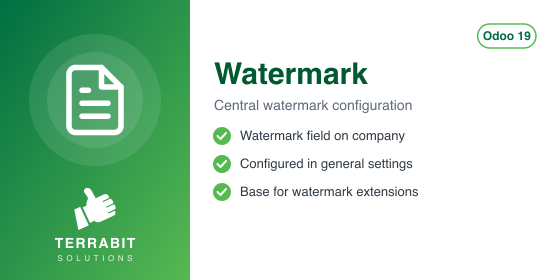
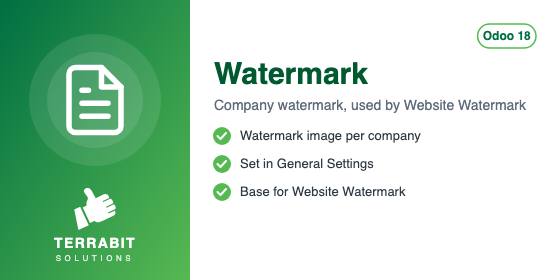
[IMP] deltatech_watermark: Apps Store page aligned with 19.0
Port of the 19.0 page (dhongu/deltatech#3024); the module code is the same on 18.0 and
19.0 (models and settings view):
- DESCRIPTION, USAGE and a new CONFIGURE from 19.0; the Website Watermark Image link
  points to its 18.0 page
- settings screenshot without the company logo that was visible in the watermark field
- banner from 19.0 (banner.json + SVG) with the "Odoo 18" pill, PNG rendered from the SVG
- summary in English, category Extra Tools, support key; HISTORY.md added
- index.html regenerated with the canonical template

diff --git a/deltatech_watermark/static/description/index.html b/deltatech_watermark/static/description/index.html
@@ -3,10 +3,10 @@
 <div class="text-center rounded-4 shadow px-4 pt-4 pb-3 mt-2 mb-4" style="background-color:#006F42;color:#ffffff;">
   <div class="mb-3"><span class="d-inline-block rounded-3 p-2" style="background-color:#ffffff;"><img src="icon.png" alt="Watermark" style="width:72px;height:72px;border:none;"/></span></div>
   <h1 class="fw-bold mb-3" style="color:#ffffff;font-size:42px;line-height:1.08;letter-spacing:-0.5px;border:none;">Watermark</h1>
-  <p class="mx-auto mb-4" style="font-size:19px;color:#cdeccf;max-width:620px;line-height:1.5;">Watermark field</p>
+  <p class="mx-auto mb-4" style="font-size:19px;color:#cdeccf;max-width:620px;line-height:1.5;">Company watermark, used by Website Watermark</p>
   <div>
     <span class="d-inline-block rounded-pill fw-bold m-1" style="background-color:#00432a;color:#ffffff;padding:8px 16px;font-size:12px;">Odoo 18.0</span>
-    <span class="d-inline-block rounded-pill fw-semibold m-1" style="background-color:#00432a;color:#ffffff;padding:8px 16px;font-size:12px;">Tools</span>
+    <span class="d-inline-block rounded-pill fw-semibold m-1" style="background-color:#00432a;color:#ffffff;padding:8px 16px;font-size:12px;">Extra Tools</span>
     <span class="d-inline-block rounded-pill fw-semibold m-1" style="background-color:#00432a;color:#ffffff;padding:8px 16px;font-size:12px;">LGPL-3</span>
     <span class="d-inline-block rounded-pill fw-semibold m-1" style="background-color:#00432a;color:#ffffff;padding:8px 16px;font-size:12px;">Odoo.sh &bull; On-premise</span>
   </div>
@@ -27,55 +27,64 @@
        style="padding:10px 22px;">Overview</a>
   </li>
   <li class="nav-item mx-1 mb-2">
+    <a class="nav-link fw-semibold rounded-pill border" id="tb-tab-configure"
+       data-bs-toggle="pill" data-bs-target="#tb-panel-configure" href="#tb-panel-configure"
+       style="padding:10px 22px;">Configuration</a>
+  </li>
+  <li class="nav-item mx-1 mb-2">
     <a class="nav-link fw-semibold rounded-pill border" id="tb-tab-usage"
        data-bs-toggle="pill" data-bs-target="#tb-panel-usage" href="#tb-panel-usage"
        style="padding:10px 22px;">Usage</a>
+  </li>
+  <li class="nav-item mx-1 mb-2">
+    <a class="nav-link fw-semibold rounded-pill border" id="tb-tab-versions"
+       data-bs-toggle="pill" data-bs-target="#tb-panel-versions" href="#tb-panel-versions"
+       style="padding:10px 22px;">Versions</a>
   </li>
 </ul>
 <div class="tab-content">
 <div class="tab-pane fade show active py-2" id="tb-panel-overview" style="font-size:16px;line-height:1.65;color:#212529;font-weight:400;">
 <h2 class="fw-bold mb-3" style="border:none;border-left:4px solid #57B952;padding-left:16px;font-size:24px;letter-spacing:-0.3px;line-height:1.2;">Overview</h2>
-<h1 class="fw-bold mt-4 mb-3" style="border:none;border-left:4px solid #57B952;padding-left:16px;font-size:24px;letter-spacing:-0.3px;line-height:1.2;">Watermark Field Base</h1>
-<p class="mb-4" style="font-size:16px;line-height:1.65;max-width:780px;">This module provides a base field for watermark images or text within Odoo. It's designed to act as a centralized storage and configuration point for watermarking functionalities used across different areas of the system, particularly in reports and on the website.</p>
-<h1 class="fw-bold mt-4 mb-3" style="border:none;border-left:4px solid #57B952;padding-left:16px;font-size:24px;letter-spacing:-0.3px;line-height:1.2;">Key Features</h1>
+<p class="mb-4" style="font-size:16px;line-height:1.65;max-width:780px;">Upload the company watermark once, in the settings, and let other modules use it where it is
+needed. This module stores the watermark image on each company and shows it in the General
+Settings. It does not change any page or document by itself: the
+<a href="https://apps.odoo.com/apps/modules/18.0/deltatech_website_watermark">Website Watermark Image</a>
+module uses it to mark the product pictures of the online shop.</p>
+<ul class="list-unstyled row row-cols-1 row-cols-md-2 g-2 mt-1 mb-4"><li class="col"><div class="border rounded-3 px-3 py-2 h-100"><span class="fw-bold">One watermark per company</span><div>Each company keeps its own watermark image. In a
+  multi-company database, the setting applies to the current company.</div></div></li><li class="col"><div class="border rounded-3 px-3 py-2 h-100"><span class="fw-bold">Set in General Settings</span><div>The image is uploaded in the Companies section of the settings,
+  with a preview.</div></div></li><li class="col"><div class="border rounded-3 px-3 py-2 h-100"><span class="fw-bold">Base for Website Watermark</span><div>Website Watermark Image applies it to the product pictures of
+  the shop when they are displayed, so the original images stay clean.</div></div></li><li class="col"><div class="border rounded-3 px-3 py-2 h-100"><span class="fw-bold">Lightweight</span><div>It depends only on the standard settings (<code class="border rounded px-2" style="font-family:ui-monospace,SFMono-Regular,Menlo,Consolas,monospace;font-size:13px;">base_setup</code> and <code class="border rounded px-2" style="font-family:ui-monospace,SFMono-Regular,Menlo,Consolas,monospace;font-size:13px;">web</code>), so other
+  modules can build on it without pulling in the website.</div></div></li></ul>
+</div>
+<div class="tab-pane fade py-2" id="tb-panel-configure" style="font-size:16px;line-height:1.65;color:#212529;font-weight:400;">
+<h2 class="fw-bold mb-3" style="border:none;border-left:4px solid #57B952;padding-left:16px;font-size:24px;letter-spacing:-0.3px;line-height:1.2;">Configuration</h2>
 <ol>
-<li>
-<p><strong>Centralized Watermark Storage</strong>:</p>
-<ul>
-<li>Adds a dedicated <strong>Watermark</strong> field (usually on the Company model).</li>
-<li>Provides a standardized place to upload and manage the image or define the text used for watermarking corporate documents or media.</li>
-</ul>
-</li>
-<li>
-<p><strong>Configuration Settings</strong>:</p>
-<ul>
-<li>Integrates with Odoo's standard configuration settings for easy management.</li>
-<li>Allows administrators to quickly update the corporate watermark globally.</li>
-</ul>
-</li>
-<li>
-<p><strong>Foundation for Extensions</strong>:</p>
-<ul>
-<li>Acts as a necessary dependency for more specific watermarking modules, such as those that apply watermarks to website images or generated PDF reports.</li>
-</ul>
-</li>
+<li>Go to <em>Settings &gt; General Settings</em>, section <em>Companies</em>.</li>
+<li>Under <strong>Watermark image</strong>, upload the image to use as the company watermark.</li>
+<li>In a multi-company database, switch to each company and repeat, if the companies use
+   different watermarks.</li>
 </ol>
-<h1 class="fw-bold mt-4 mb-3" style="border:none;border-left:4px solid #57B952;padding-left:16px;font-size:24px;letter-spacing:-0.3px;line-height:1.2;">Usage</h1>
-<ol>
-<li>Navigate to <strong>Settings &gt; General Settings</strong>.</li>
-<li>Locate the <strong>Watermark</strong> section (if configured) or open the <strong>Company</strong> record.</li>
-<li>Upload the desired image or enter the text you wish to use as a watermark.</li>
-<li>Install other modules that depend on this base module (e.g., <code class="border rounded px-2" style="font-family:ui-monospace,SFMono-Regular,Menlo,Consolas,monospace;font-size:13px;">deltatech_website_watermark</code>) to see the watermark applied in specific contexts.</li>
-</ol>
-<p>WARNING:</p>
-<p>This module provides the necessary fields and configuration but does not apply the watermark by itself. It requires additional extension modules to perform the actual watermarking on specific documents or images.</p>
+<p><img alt="" src="settings.png" /></p>
+<p><em>Screenshot from an earlier Odoo version, where the field was under Business Documents. In
+Odoo 18 it is in the Companies section.</em></p>
 </div>
 <div class="tab-pane fade py-2" id="tb-panel-usage" style="font-size:16px;line-height:1.65;color:#212529;font-weight:400;">
 <h2 class="fw-bold mb-3" style="border:none;border-left:4px solid #57B952;padding-left:16px;font-size:24px;letter-spacing:-0.3px;line-height:1.2;">Usage</h2>
+<p>This module only stores the watermark. To see it applied, install a module that uses it, such as
+<a href="https://apps.odoo.com/apps/modules/18.0/deltatech_website_watermark">Website Watermark Image</a>,
+which marks the product pictures of the online shop.</p>
+<p>When the <strong>Watermark image</strong> is empty, the modules that depend on it show the images unchanged.</p>
+</div>
+<div class="tab-pane fade py-2" id="tb-panel-versions" style="font-size:16px;line-height:1.65;color:#212529;font-weight:400;">
+<h2 class="fw-bold mb-3" style="border:none;border-left:4px solid #57B952;padding-left:16px;font-size:24px;letter-spacing:-0.3px;line-height:1.2;">Versions</h2>
+<h2 class="fw-bold mt-4 mb-3" style="border:none;border-left:4px solid #57B952;padding-left:16px;font-size:24px;letter-spacing:-0.3px;line-height:1.2;">18.0.3.0.1 (2026-10-06)</h2>
 <ul>
-<li>Go to: Setting -&gt; General Settings - Business Documents</li>
+<li>Apps Store description brought in line with 19.0: a watermark image per company, set in
+  General Settings (Companies section), used by Website Watermark Image. Separate Configuration
+  and Usage, clearer summary, category Extra Tools.</li>
+<li>The settings screenshot no longer shows a sample company logo in the watermark field, and the
+  Apps Store banner matches the new summary.</li>
 </ul>
-<p><img alt="" src="settings.png" /></p>
 </div>
 </div>
 
@@ -117,6 +126,38 @@
        class="fw-semibold" style="color:#006F42;">All apps &rarr;</a></p>
   <div class="row g-3">
     <div class="col-md-3 col-sm-6">
+      <a href="https://apps.odoo.com/apps/modules/18.0/deltatech_line_counter" target="_blank" rel="noopener"
+         class="card h-100 text-decoration-none border" style="color:#212529;">
+        <div class="card-body p-3">
+          <div class="d-flex align-items-center mb-2">
+            <span class="d-inline-block text-center fw-bold rounded me-2 flex-shrink-0"
+                  style="width:40px;height:40px;line-height:40px;font-size:14px;color:#ffffff;background-color:#006F42;">LC</span>
+            <span>
+              <span class="d-block fw-semibold" style="font-size:16px;line-height:1.25;">Deltatech Line Counter</span>
+              <span class="d-block" style="font-size:13px;color:#3d4752;">Extra Tools</span>
+            </span>
+          </div>
+          <p class="mb-0" style="font-size:15px;line-height:1.45;color:#3d4752;">Count lines of code in selected modules</p>
+        </div>
+      </a>
+    </div>
+    <div class="col-md-3 col-sm-6">
+      <a href="https://apps.odoo.com/apps/modules/18.0/deltatech_sms" target="_blank" rel="noopener"
+         class="card h-100 text-decoration-none border" style="color:#212529;">
+        <div class="card-body p-3">
+          <div class="d-flex align-items-center mb-2">
+            <span class="d-inline-block text-center fw-bold rounded me-2 flex-shrink-0"
+                  style="width:40px;height:40px;line-height:40px;font-size:14px;color:#ffffff;background-color:#006F42;">SM</span>
+            <span>
+              <span class="d-block fw-semibold" style="font-size:16px;line-height:1.25;">Deltatech SMS</span>
+              <span class="d-block" style="font-size:13px;color:#3d4752;">Extra Tools</span>
+            </span>
+          </div>
+          <p class="mb-0" style="font-size:15px;line-height:1.45;color:#3d4752;">Send SMS to custom endpoint</p>
+        </div>
+      </a>
+    </div>
+    <div class="col-md-3 col-sm-6">
       <a href="https://apps.odoo.com/apps/modules/18.0/deltatech" target="_blank" rel="noopener"
          class="card h-100 text-decoration-none border" style="color:#212529;">
         <div class="card-body p-3">
@@ -129,86 +170,6 @@
             </span>
           </div>
           <p class="mb-0" style="font-size:15px;line-height:1.45;color:#3d4752;">Generic module</p>
-        </div>
-      </a>
-    </div>
-    <div class="col-md-3 col-sm-6">
-      <a href="https://apps.odoo.com/apps/modules/18.0/deltatech_no_quick_create" target="_blank" rel="noopener"
-         class="card h-100 text-decoration-none border" style="color:#212529;">
-        <div class="card-body p-3">
-          <div class="d-flex align-items-center mb-2">
-            <span class="d-inline-block text-center fw-bold rounded me-2 flex-shrink-0"
-                  style="width:40px;height:40px;line-height:40px;font-size:14px;color:#ffffff;background-color:#006F42;">NQ</span>
-            <span>
-              <span class="d-block fw-semibold" style="font-size:16px;line-height:1.25;">No quick_create</span>
-              <span class="d-block" style="font-size:13px;color:#3d4752;">Tools</span>
-            </span>
-          </div>
-          <p class="mb-0" style="font-size:15px;line-height:1.45;color:#3d4752;">Disable quick_create</p>
-        </div>
-      </a>
-    </div>
-    <div class="col-md-3 col-sm-6">
-      <a href="https://apps.odoo.com/apps/modules/18.0/deltatech_notification_sound" target="_blank" rel="noopener"
-         class="card h-100 text-decoration-none border" style="color:#212529;">
-        <div class="card-body p-3">
-          <div class="d-flex align-items-center mb-2">
-            <span class="d-inline-block text-center fw-bold rounded me-2 flex-shrink-0"
-                  style="width:40px;height:40px;line-height:40px;font-size:14px;color:#ffffff;background-color:#006F42;">NS</span>
-            <span>
-              <span class="d-block fw-semibold" style="font-size:16px;line-height:1.25;">Notification Sound</span>
-              <span class="d-block" style="font-size:13px;color:#3d4752;">Tools</span>
-            </span>
-          </div>
-          <p class="mb-0" style="font-size:15px;line-height:1.45;color:#3d4752;">Notification Sound</p>
-        </div>
-      </a>
-    </div>
-    <div class="col-md-3 col-sm-6">
-      <a href="https://apps.odoo.com/apps/modules/18.0/deltatech_packaging" target="_blank" rel="noopener"
-         class="card h-100 text-decoration-none border" style="color:#212529;">
-        <div class="card-body p-3">
-          <div class="d-flex align-items-center mb-2">
-            <span class="d-inline-block text-center fw-bold rounded me-2 flex-shrink-0"
-                  style="width:40px;height:40px;line-height:40px;font-size:14px;color:#ffffff;background-color:#006F42;">PA</span>
-            <span>
-              <span class="d-block fw-semibold" style="font-size:16px;line-height:1.25;">Packaging</span>
-              <span class="d-block" style="font-size:13px;color:#3d4752;">Tools</span>
-            </span>
-          </div>
-          <p class="mb-0" style="font-size:15px;line-height:1.45;color:#3d4752;">Packaging</p>
-        </div>
-      </a>
-    </div>
-    <div class="col-md-3 col-sm-6">
-      <a href="https://apps.odoo.com/apps/modules/18.0/deltatech_restrict_reports" target="_blank" rel="noopener"
-         class="card h-100 text-decoration-none border" style="color:#212529;">
-        <div class="card-body p-3">
-          <div class="d-flex align-items-center mb-2">
-            <span class="d-inline-block text-center fw-bold rounded me-2 flex-shrink-0"
-                  style="width:40px;height:40px;line-height:40px;font-size:14px;color:#ffffff;background-color:#006F42;">RR</span>
-            <span>
-              <span class="d-block fw-semibold" style="font-size:16px;line-height:1.25;">Deltatech - Restrict Reports Access</span>
-              <span class="d-block" style="font-size:13px;color:#3d4752;">Tools</span>
-            </span>
-          </div>
-          <p class="mb-0" style="font-size:15px;line-height:1.45;color:#3d4752;">Restrict Sales Analysis and Invoice Analysis reports by group: own records, all records, or no access.</p>
-        </div>
-      </a>
-    </div>
-    <div class="col-md-3 col-sm-6">
-      <a href="https://apps.odoo.com/apps/modules/18.0/deltatech_test_system" target="_blank" rel="noopener"
-         class="card h-100 text-decoration-none border" style="color:#212529;">
-        <div class="card-body p-3">
-          <div class="d-flex align-items-center mb-2">
-            <span class="d-inline-block text-center fw-bold rounded me-2 flex-shrink-0"
-                  style="width:40px;height:40px;line-height:40px;font-size:14px;color:#ffffff;background-color:#006F42;">TS</span>
-            <span>
-              <span class="d-block fw-semibold" style="font-size:16px;line-height:1.25;">Deltatech Test System</span>
-              <span class="d-block" style="font-size:13px;color:#3d4752;">Tools</span>
-            </span>
-          </div>
-          <p class="mb-0" style="font-size:15px;line-height:1.45;color:#3d4752;">Set system status: test or production</p>
         </div>
       </a>
     </div>
@@ -241,6 +202,54 @@
             </span>
           </div>
           <p class="mb-0" style="font-size:15px;line-height:1.45;color:#3d4752;">Analytic lines enhancements</p>
+        </div>
+      </a>
+    </div>
+    <div class="col-md-3 col-sm-6">
+      <a href="https://apps.odoo.com/apps/modules/18.0/deltatech_account_edi_ubl_advice" target="_blank" rel="noopener"
+         class="card h-100 text-decoration-none border" style="color:#212529;">
+        <div class="card-body p-3">
+          <div class="d-flex align-items-center mb-2">
+            <span class="d-inline-block text-center fw-bold rounded me-2 flex-shrink-0"
+                  style="width:40px;height:40px;line-height:40px;font-size:14px;color:#ffffff;background-color:#006F42;">UD</span>
+            <span>
+              <span class="d-block fw-semibold" style="font-size:16px;line-height:1.25;">Deltatech UBL despatch advice</span>
+              <span class="d-block" style="font-size:13px;color:#3d4752;">Accounting &amp; Finance</span>
+            </span>
+          </div>
+          <p class="mb-0" style="font-size:15px;line-height:1.45;color:#3d4752;">Deltatech Account UBL despatch advice</p>
+        </div>
+      </a>
+    </div>
+    <div class="col-md-3 col-sm-6">
+      <a href="https://apps.odoo.com/apps/modules/18.0/deltatech_account_edi_ubl_gln" target="_blank" rel="noopener"
+         class="card h-100 text-decoration-none border" style="color:#212529;">
+        <div class="card-body p-3">
+          <div class="d-flex align-items-center mb-2">
+            <span class="d-inline-block text-center fw-bold rounded me-2 flex-shrink-0"
+                  style="width:40px;height:40px;line-height:40px;font-size:14px;color:#ffffff;background-color:#006F42;">UG</span>
+            <span>
+              <span class="d-block fw-semibold" style="font-size:16px;line-height:1.25;">Deltatech UBL GLN - Obsolete</span>
+              <span class="d-block" style="font-size:13px;color:#3d4752;">Accounting &amp; Finance</span>
+            </span>
+          </div>
+          <p class="mb-0" style="font-size:15px;line-height:1.45;color:#3d4752;">Deltatech Account UBL GLN</p>
+        </div>
+      </a>
+    </div>
+    <div class="col-md-3 col-sm-6">
+      <a href="https://apps.odoo.com/apps/modules/18.0/deltatech_account_edit_currency_rate" target="_blank" rel="noopener"
+         class="card h-100 text-decoration-none border" style="color:#212529;">
+        <div class="card-body p-3">
+          <div class="d-flex align-items-center mb-2">
+            <span class="d-inline-block text-center fw-bold rounded me-2 flex-shrink-0"
+                  style="width:40px;height:40px;line-height:40px;font-size:14px;color:#ffffff;background-color:#006F42;">EC</span>
+            <span>
+              <span class="d-block fw-semibold" style="font-size:16px;line-height:1.25;">Deltatech Edit Currency Rate</span>
+              <span class="d-block" style="font-size:13px;color:#3d4752;">Sales</span>
+            </span>
+          </div>
+          <p class="mb-0" style="font-size:15px;line-height:1.45;color:#3d4752;">Edit the currency rate on the invoice</p>
         </div>
       </a>
     </div>

diff --git a/deltatech_watermark/__manifest__.py b/deltatech_watermark/__manifest__.py
@@ -4,11 +4,12 @@
 
 {
     "name": "Watermark",
-    "summary": "Watermark field",
-    "version": "18.0.3.0.0",
+    "summary": "Company watermark, used by Website Watermark",
+    "version": "18.0.3.0.1",
     "author": "Terrabit, Dorin Hongu",
     "website": "https://www.terrabit.ro",
-    "category": "Tools",
+    "support": "support@terrabit.ro",
+    "category": "Extra Tools",
     "depends": ["base_setup", "web"],
     "license": "LGPL-3",
     "data": [

diff --git a/deltatech_watermark/readme/DESCRIPTION.md b/deltatech_watermark/readme/DESCRIPTION.md
@@ -1,30 +1,14 @@
-Watermark Field Base
-====================
+Upload the company watermark once, in the settings, and let other modules use it where it is
+needed. This module stores the watermark image on each company and shows it in the General
+Settings. It does not change any page or document by itself: the
+[Website Watermark Image](https://apps.odoo.com/apps/modules/18.0/deltatech_website_watermark)
+module uses it to mark the product pictures of the online shop.
 
-This module provides a base field for watermark images or text within Odoo. It's designed to act as a centralized storage and configuration point for watermarking functionalities used across different areas of the system, particularly in reports and on the website.
-
-Key Features
-============
-
-1.  **Centralized Watermark Storage**:
-    *   Adds a dedicated **Watermark** field (usually on the Company model).
-    *   Provides a standardized place to upload and manage the image or define the text used for watermarking corporate documents or media.
-
-2.  **Configuration Settings**:
-    *   Integrates with Odoo's standard configuration settings for easy management.
-    *   Allows administrators to quickly update the corporate watermark globally.
-
-3.  **Foundation for Extensions**:
-    *    Acts as a necessary dependency for more specific watermarking modules, such as those that apply watermarks to website images or generated PDF reports.
-
-Usage
-=====
-
-1.  Navigate to **Settings > General Settings**.
-2.  Locate the **Watermark** section (if configured) or open the **Company** record.
-3.  Upload the desired image or enter the text you wish to use as a watermark.
-4.  Install other modules that depend on this base module (e.g., `deltatech_website_watermark`) to see the watermark applied in specific contexts.
-
-WARNING:
-
-   This module provides the necessary fields and configuration but does not apply the watermark by itself. It requires additional extension modules to perform the actual watermarking on specific documents or images.
+- **One watermark per company**: Each company keeps its own watermark image. In a
+  multi-company database, the setting applies to the current company.
+- **Set in General Settings**: The image is uploaded in the Companies section of the settings,
+  with a preview.
+- **Base for Website Watermark**: Website Watermark Image applies it to the product pictures of
+  the shop when they are displayed, so the original images stay clean.
+- **Lightweight**: It depends only on the standard settings (`base_setup` and `web`), so other
+  modules can build on it without pulling in the website.

diff --git a/deltatech_watermark/readme/USAGE.md b/deltatech_watermark/readme/USAGE.md
@@ -1,3 +1,5 @@
-- Go to: Setting -\> General Settings - Business Documents
+This module only stores the watermark. To see it applied, install a module that uses it, such as
+[Website Watermark Image](https://apps.odoo.com/apps/modules/18.0/deltatech_website_watermark),
+which marks the product pictures of the online shop.
 
-![](static/description/settings.png)
+When the **Watermark image** is empty, the modules that depend on it show the images unchanged.

diff --git a/deltatech_watermark/readme/CONFIGURE.md b/deltatech_watermark/readme/CONFIGURE.md
@@ -1,0 +1,9 @@
+1. Go to *Settings > General Settings*, section *Companies*.
+2. Under **Watermark image**, upload the image to use as the company watermark.
+3. In a multi-company database, switch to each company and repeat, if the companies use
+   different watermarks.
+
+![](static/description/settings.png)
+
+*Screenshot from an earlier Odoo version, where the field was under Business Documents. In
+Odoo 18 it is in the Companies section.*

diff --git a/deltatech_watermark/readme/HISTORY.md b/deltatech_watermark/readme/HISTORY.md
@@ -1,0 +1,7 @@
+## 18.0.3.0.1 (2026-10-06)
+
+- Apps Store description brought in line with 19.0: a watermark image per company, set in
+  General Settings (Companies section), used by Website Watermark Image. Separate Configuration
+  and Usage, clearer summary, category Extra Tools.
+- The settings screenshot no longer shows a sample company logo in the watermark field, and the
+  Apps Store banner matches the new summary.
